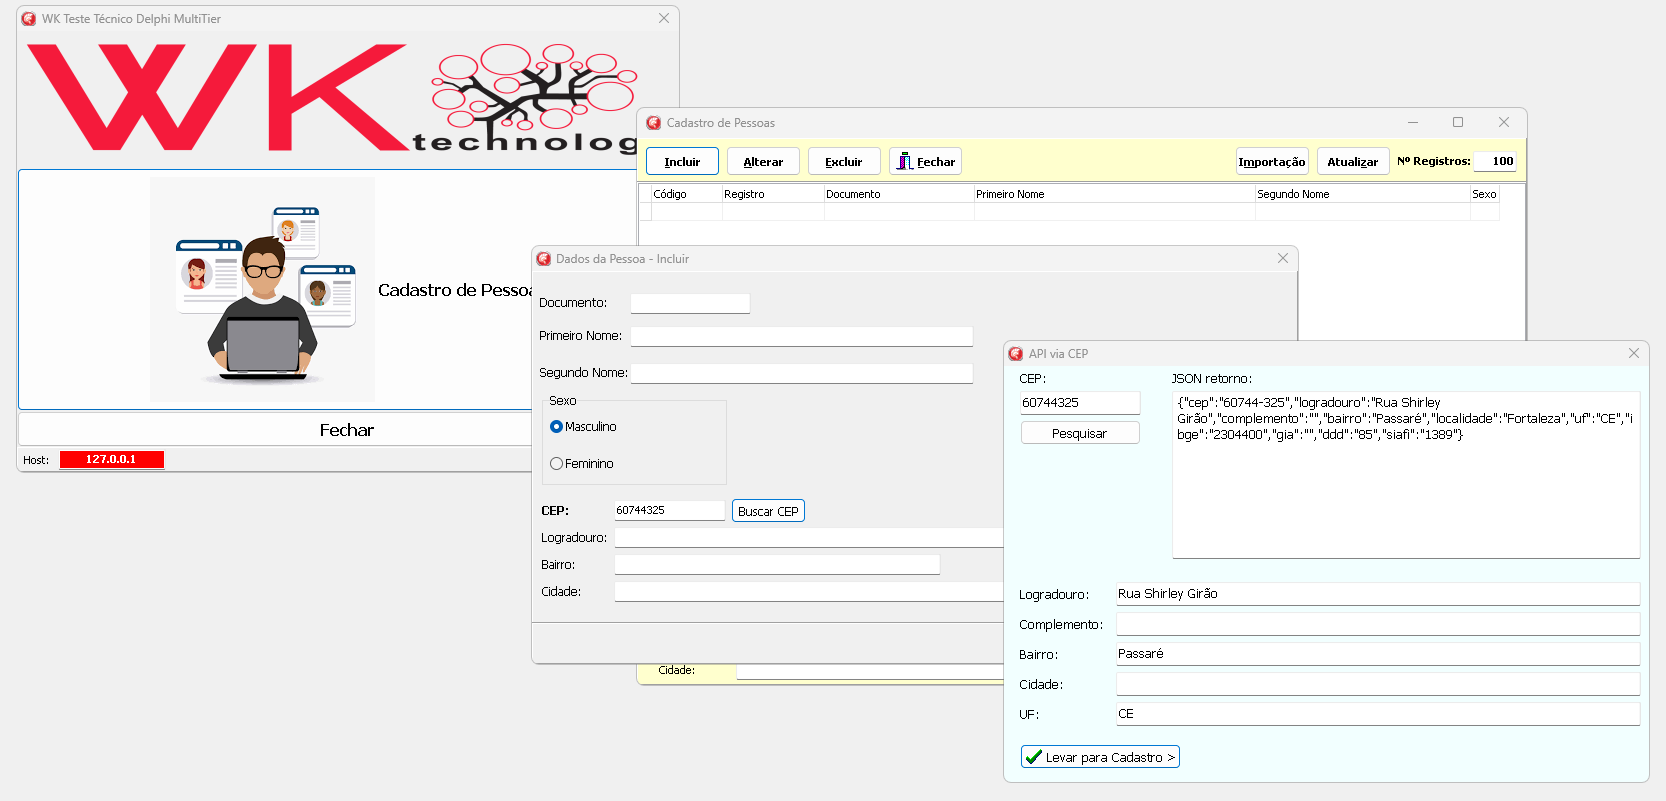
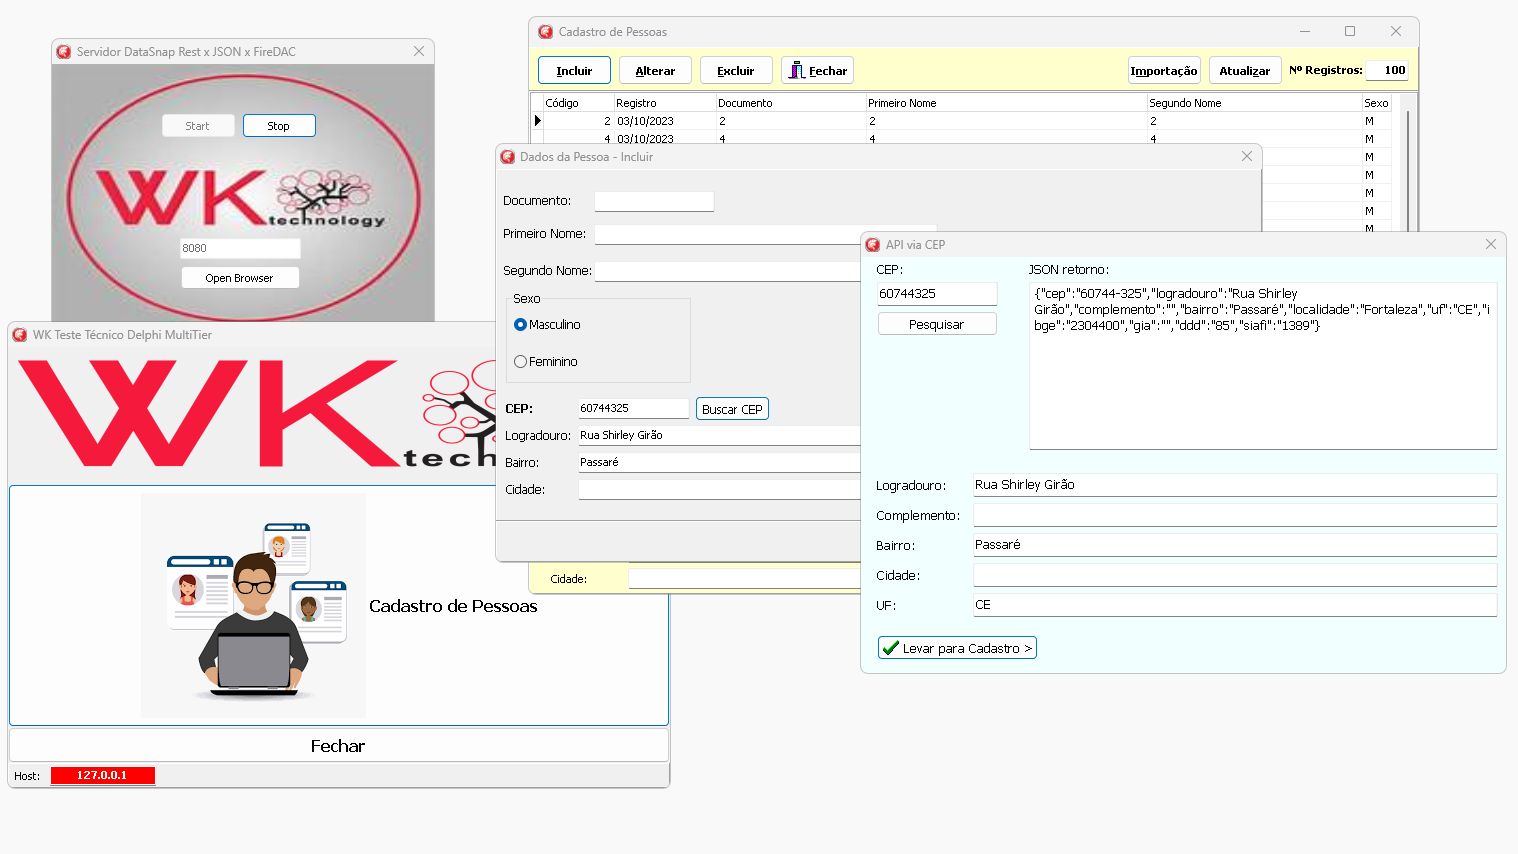
Importação em Lote do Cadastro de Pessoas 2

diff --git a/README.md b/README.md
@@ -147,5 +147,7 @@ COMMENT ON DATABASE wkcadpessoas
 		CREATE DOMAIN sexo_full AS char(1) DEFAULT 'M' NOT NULL CHECK ( VALUE IN ('M', 'F'));
         ALTER TABLE pessoa ADD COLUMN flnatureza sexo_full;
 		
+## Insert em Lote
 
+![## Documento de Requisitos CadPessoas](https://github.com/HelioHub/cadpessoas/blob/main/Requisitos/InsertLote.png)
 
